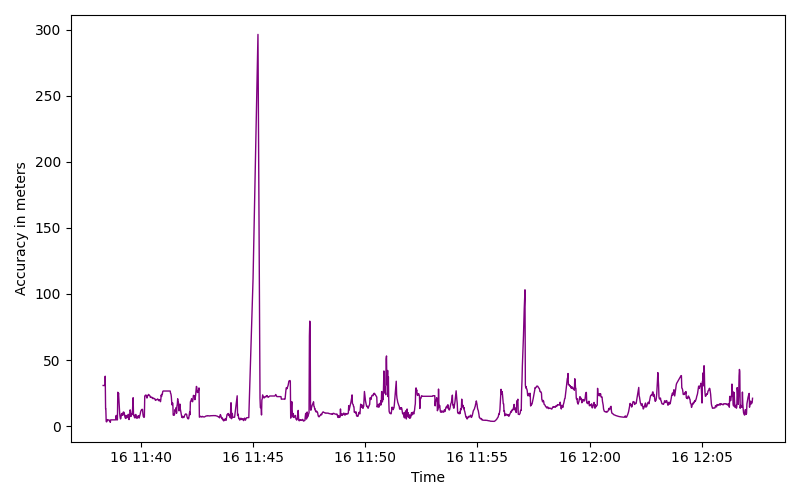
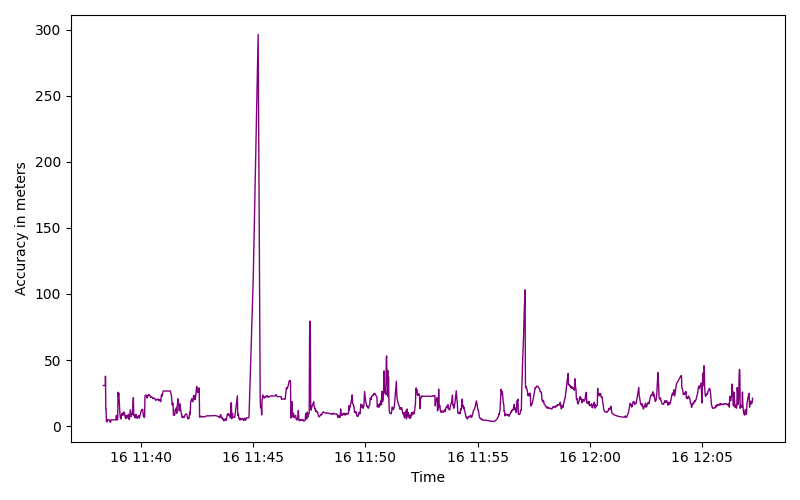
add the google authentification functionality

diff --git a/index.html b/index.html
@@ -5,11 +5,39 @@
     <meta content='width=device-width, initial-scale=1' name='viewport'/>
 </head>
 <body>
-    <h1>Collect data page</h1>
-    <button id="start_button">Start Recording</button>
-    <button id="stop_button">Stop Recording</button>
-    <div id="is_running" style="width:20px; height:20px; background-color:red;"></div>
-    <p id="the_gps_values"></p>
+    <!-- the page to login to the main page through google -->
+    <div id="login_with_Google"> hidden>
+        <h1>DART Sensor Login</h1>
+        <button id="login_button">Sign in using Google</button>
+        <p id="the_login_error"></p>
+    </div>
+    <!-- the main actually collecting the dart data page -->
+    <div id="on_main_page"> hidden>
+        <!-- the actual HTML body to set up the webpage -->
+        <h1>Collect data page</h1>
+        <button id="start_button">Start Recording</button>
+        <button id="stop_button">Stop Recording</button>
+        <div id="is_running" style="width:20px; height:20px; background-color:red;"></div>
+        <p id="the_gps_values"></p>
+    </div>
+    <!-- the firebase imports -->
+    <script src="https://www.gstatic.com/firebasejs/13.1.0/firebase-app-compat.js"></script>
+    <script src="https://www.gstatic.com/firebasejs/13.1.0/firebase-firestore-compat.js"></script>
+    <script src="https://www.gstatic.com/firebasejs/13.1.0/firebase-auth-compat.js"></script>
+    <!-- the setup for firebase -->
+    <script>
+        const firebaseConfig = {
+            apiKey: "AIzaSyByfgA9ojBhvFVSG87JNPYQDmIx-7yVaxw",
+            authDomain: "urban-computing-6314b.firebaseapp.com",
+            projectId: "urban-computing-6314b",
+            storageBucket: "urban-computing-6314b.firebasestorage.app",
+            messagingSenderId: "385401917960",
+            appId: "1:385401917960:web:ba91f8642ae29d0a5ff7bd",
+            measurementId: "G-E3WD68Q388"
+    };
+    firebase.initializeApp(firebaseConfig);
+    </script>
+    <script src="firebase.js"></script>
     <script src="sensor.js"></script>
 </body>
 </html>

diff --git a/firebase.js b/firebase.js
@@ -1,0 +1,19 @@
+
+const firebase_authentication = firebase.auth();
+const login_page = document.getElementById("login_with_Google");
+const main_page = document.getElementById("on_main_page");
+const login_button = document.getElementById("login_button");
+
+// check if the user is logged in and hide the login page if they are or hide the main page if the arent
+firebase_authentication.onAuthStateChanged(function(current_user) {
+    login_page.hidden = (current_user !== null);
+    main_page.hidden = (current_user === null);
+});
+
+// get the google authentication popup to login to the main page
+login_button.addEventListener("click", function() {
+    const google_auth = new firebase.auth.GoogleAuthProvider();
+    firebase_authentication.signInWithPopup(google_auth).catch(function(error) {
+        console.error(error);
+    });
+});
